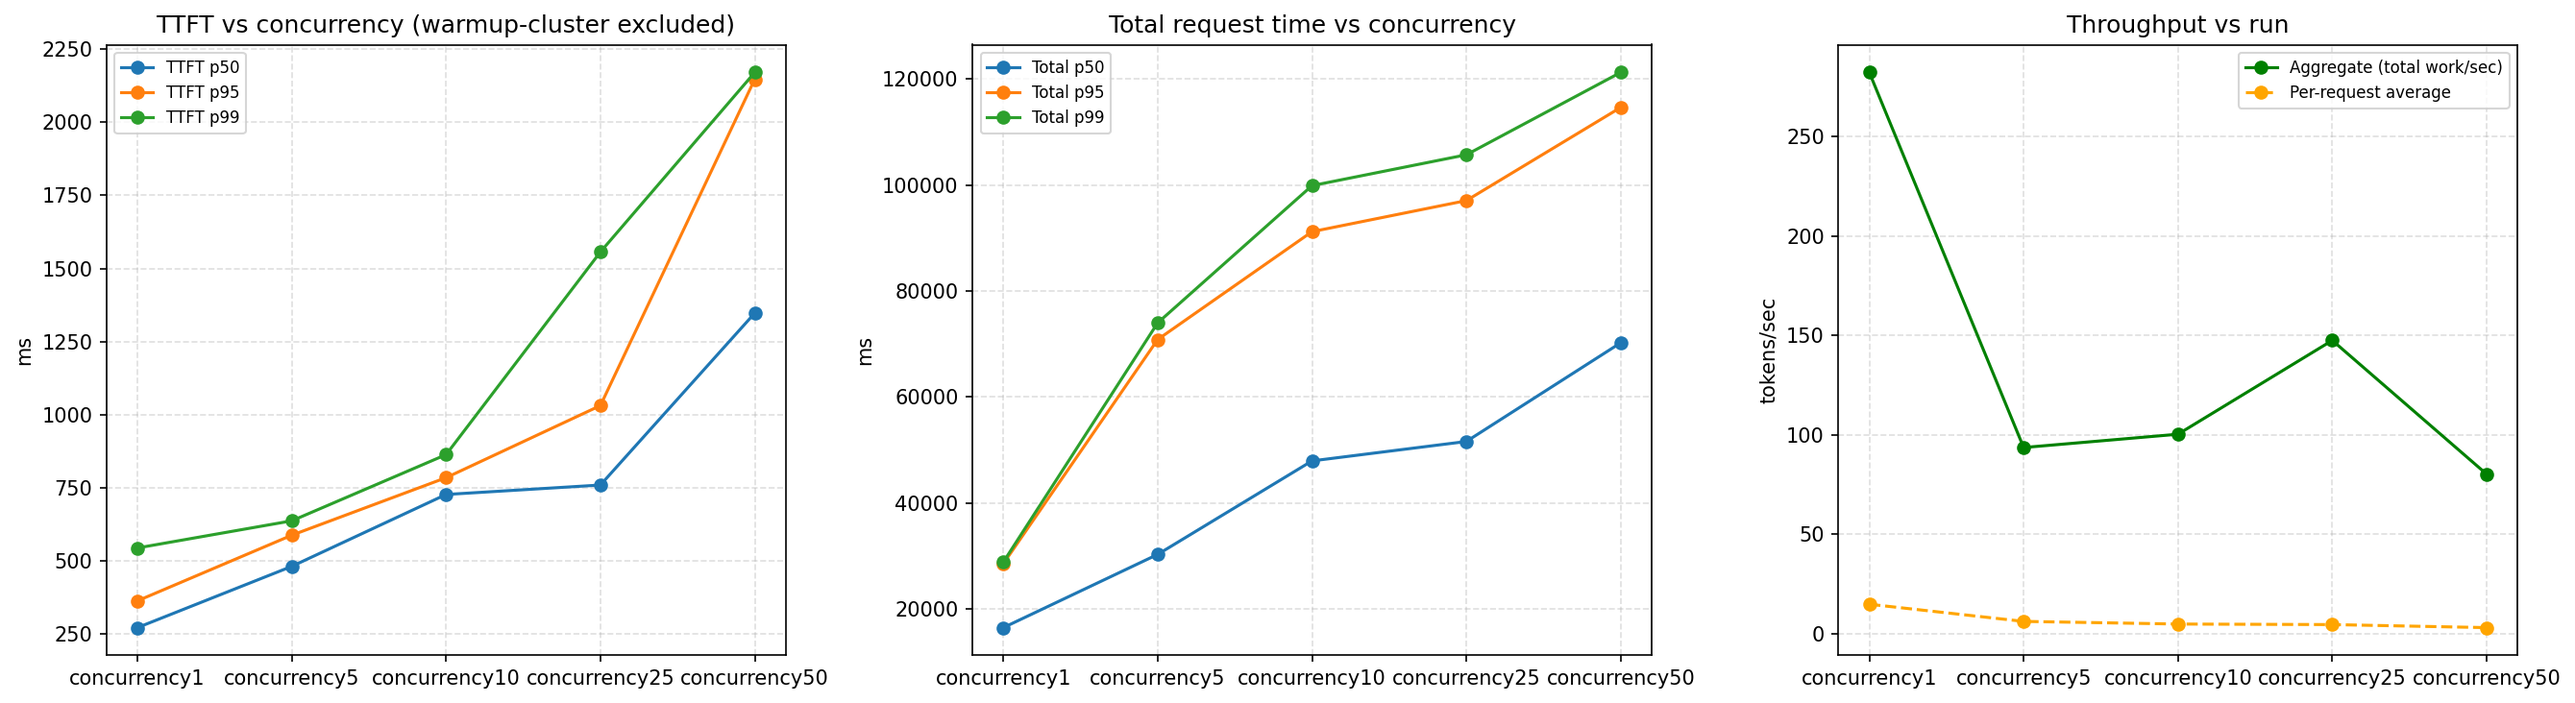
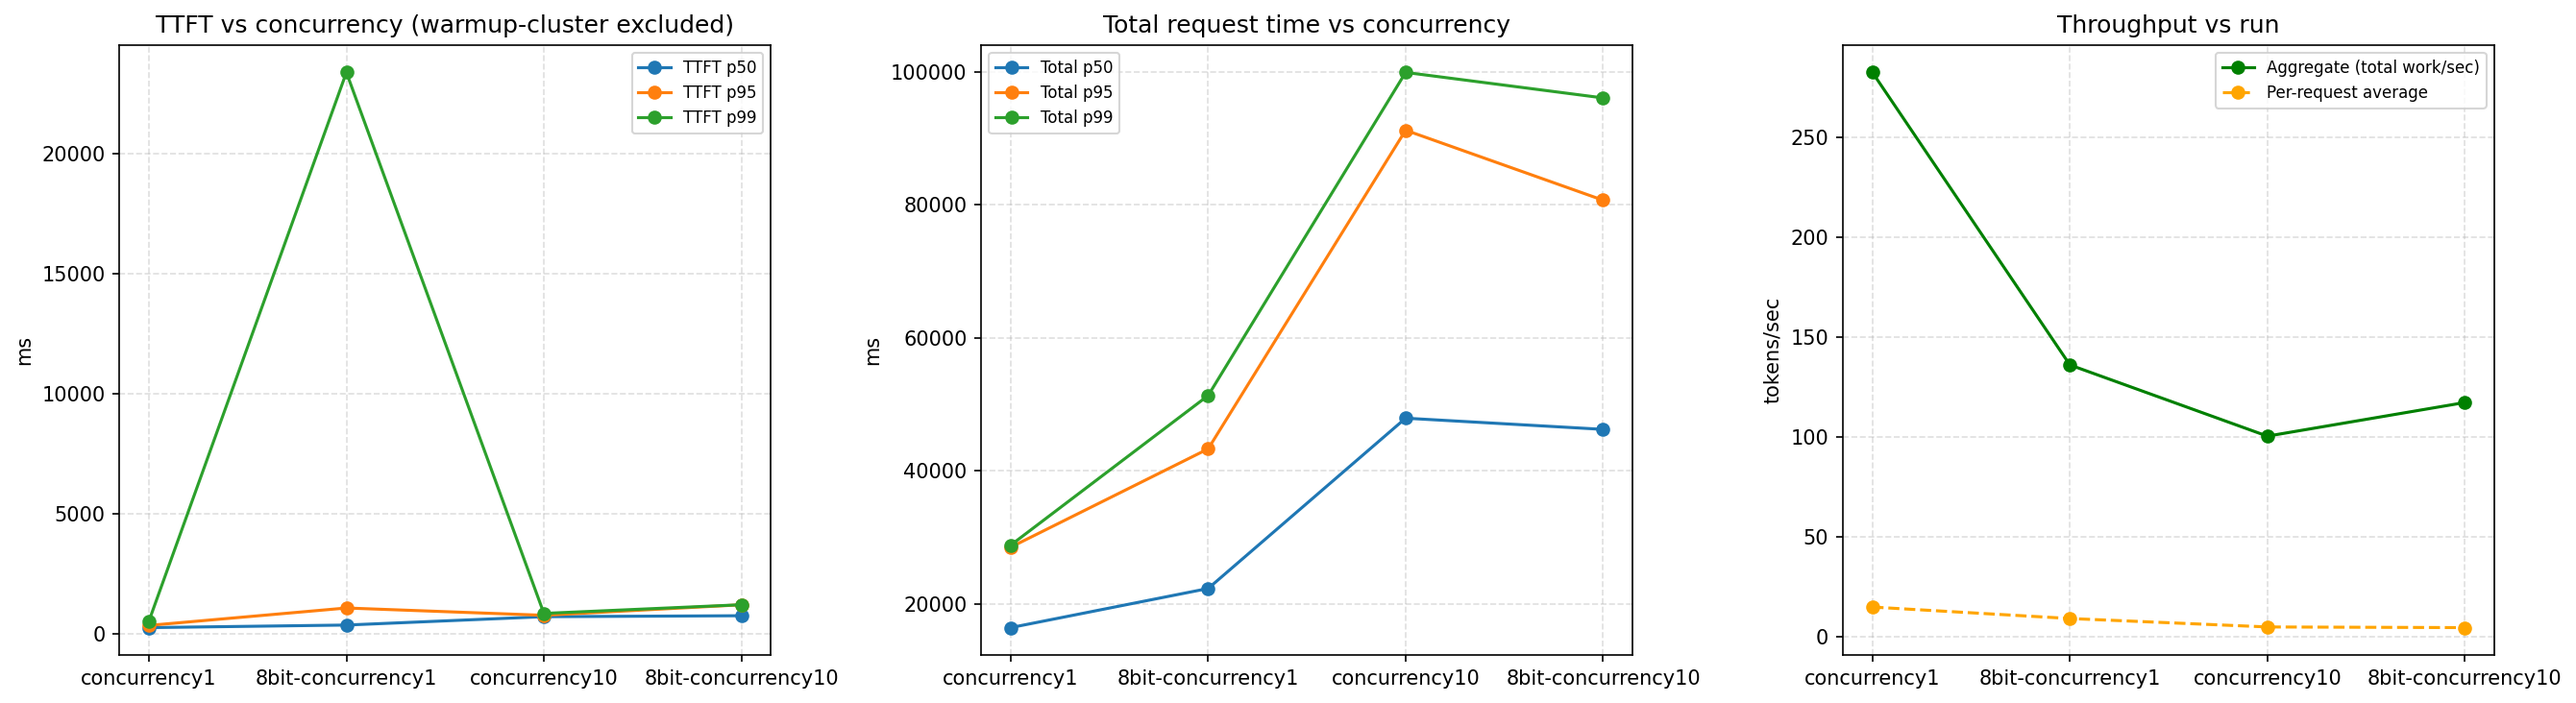
Add idle-recovery test script + gpu_util_pct in benchmark harness
Bundles two
  previously-uncommitted pieces of work: idle_recovery_test.py and the updated saturation chart from the Task 7
  idle-recovery investigation, plus Phase 1 item #3 (gpu_util_pct scraped from the powermetrics_exporter.py
  sidecar, wired into run_bench.py and documented in README.md).

diff --git a/scripts/run_bench.py b/scripts/run_bench.py
@@ -19,10 +19,12 @@ request completes, to capture scheduler/KV-cache state at that point in time:
     vllm_kv_cache_usage_perc
 
 Note (Apple Silicon / Metal): vLLM does not expose a GPU compute utilization
-percentage metric the way DCGM does on NVIDIA GPUs. On this hardware, GPU
-utilization has to come from a separate `powermetrics` / asitop sample taken
-alongside the run — that's a documented gap, not a bug in this script. See
-README.md "Known limitations" for the plan to close it.
+percentage metric the way DCGM does on NVIDIA GPUs. This script closes that
+gap by *also* scraping observability/powermetrics_exporter.py (Task 6, in
+the vllm-apple-silicon-serving repo) on a separate port (default 9400),
+recording its GPU HW active residency reading as gpu_util_pct. That exporter
+must be running (it needs sudo) for gpu_util_pct to be non-None -- pass
+--no-gpu-metrics to skip the scrape entirely if it isn't. See README.md.
 
 Usage:
     python scripts/run_bench.py \\
@@ -75,6 +77,11 @@ class RequestResult:
     num_requests_running: Optional[float] = None
     num_requests_waiting: Optional[float] = None
     kv_cache_usage_perc: Optional[float] = None
+    # GPU HW active residency percent, from the powermetrics_exporter.py sidecar
+    # (Task 6) on a separate port -- vLLM's own /metrics has no GPU-utilization
+    # number on Apple Silicon (no DCGM equivalent). None if the exporter isn't
+    # running, not a harness bug -- see README "Known limitation" note.
+    gpu_util_pct: Optional[float] = None
     # Diagnostic timing, added after an unexplained 36s TTFT outlier at
     # concurrency=1 (2026-08-02) that the vLLM server's own log did not
     # corroborate as real prefill time. queue_wait_ms measures time from
@@ -102,14 +109,26 @@ METRIC_PATTERNS = {
     "kv_cache_usage_perc": re.compile(r"^vllm:kv_cache_usage_perc(\{[^}]*\})?\s+([0-9.eE+-]+)", re.MULTILINE),
 }
 
+# GPU utilization comes from a *separate* process: observability/powermetrics_exporter.py
+# (built for Phase 1 Task 6, in the vllm-apple-silicon-serving repo), which wraps macOS's
+# `powermetrics` and re-serves it in Prometheus format on its own port (default 9400) since
+# vLLM itself has no GPU-utilization metric on Apple Silicon (no DCGM equivalent). Pattern
+# deliberately mirrors the vllm: patterns' shape (optional label group + value group) so both
+# sets of patterns can share one capture-group index (group 2) in scrape_metrics below.
+GPU_METRIC_PATTERNS = {
+    "gpu_util_pct": re.compile(r"^powermetrics_gpu_active_residency_percent(\{[^}]*\})?\s+([0-9.eE+-]+)", re.MULTILINE),
+}
 
-async def scrape_metrics(client: httpx.AsyncClient, metrics_url: str) -> dict:
-    """Fetch and parse the subset of vLLM Prometheus metrics we care about.
 
-    Returns a dict with None values for any metric not found (older/newer
-    vLLM versions do rename these — see README for the version note).
+async def scrape_metrics(client: httpx.AsyncClient, metrics_url: str, patterns: dict) -> dict:
+    """Fetch a Prometheus /metrics endpoint and parse out the given patterns.
+
+    Returns a dict with None values for any metric not found -- either the
+    endpoint is unreachable (server/exporter not running), or the metric
+    name doesn't match (e.g. a vLLM version that renamed it -- see README
+    for the version note).
     """
-    out = {k: None for k in METRIC_PATTERNS}
+    out = {k: None for k in patterns}
     try:
         resp = await client.get(metrics_url, timeout=5.0)
         resp.raise_for_status()
@@ -117,7 +136,7 @@ async def scrape_metrics(client: httpx.AsyncClient, metrics_url: str) -> dict:
     except Exception:
         return out
 
-    for key, pattern in METRIC_PATTERNS.items():
+    for key, pattern in patterns.items():
         match = pattern.search(text)
         if match:
             try:
@@ -178,6 +197,7 @@ async def run_one_request(
     api_key: str,
     model: str,
     metrics_url: str,
+    gpu_metrics_url: Optional[str],
     row: dict,
     created_at: Optional[float] = None,
 ) -> RequestResult:
@@ -279,10 +299,17 @@ async def run_one_request(
         result.tokens_per_sec = result.output_tokens / (result.total_ms / 1000.0)
 
     # Snapshot scheduler state right after this request completes.
-    metrics = await scrape_metrics(client, metrics_url)
+    metrics = await scrape_metrics(client, metrics_url, METRIC_PATTERNS)
     result.num_requests_running = metrics["num_requests_running"]
     result.num_requests_waiting = metrics["num_requests_waiting"]
     result.kv_cache_usage_perc = metrics["kv_cache_usage_perc"]
+
+    # Same idea, second source: GPU utilization from the powermetrics exporter
+    # sidecar. gpu_metrics_url is None if --gpu-metrics-url wasn't passed, in
+    # which case we skip the scrape entirely rather than hit a bad URL.
+    if gpu_metrics_url:
+        gpu_metrics = await scrape_metrics(client, gpu_metrics_url, GPU_METRIC_PATTERNS)
+        result.gpu_util_pct = gpu_metrics["gpu_util_pct"]
 
     return result
 
@@ -300,6 +327,7 @@ async def run_benchmark(
     variant: str,
     max_samples: Optional[int] = None,
     repeat: int = 1,
+    gpu_metrics_url: Optional[str] = None,
 ) -> Path:
     rows = load_dataset(dataset_path)
     rows = expand_dataset(rows, repeat)
@@ -316,8 +344,8 @@ async def run_benchmark(
         async def bound_run(row, created_at):
             async with semaphore:
                 return await run_one_request(
-                    client, base_url, api_key, model, metrics_url, row,
-                    created_at=created_at,
+                    client, base_url, api_key, model, metrics_url,
+                    gpu_metrics_url, row, created_at=created_at,
                 )
 
         # created_at is stamped when the task list is built, i.e. before any
@@ -347,6 +375,7 @@ async def run_benchmark(
         "queue_wait_ms", "connect_wait_ms",
         "input_tokens", "output_tokens", "tokens_per_sec",
         "num_requests_running", "num_requests_waiting", "kv_cache_usage_perc",
+        "gpu_util_pct",
         "error",
     ]
     with out_path.open("w", newline="", encoding="utf-8") as f:
@@ -396,13 +425,21 @@ def parse_args():
     p.add_argument("--repeat", type=int, default=1,
                     help="Cycle through the dataset this many times before running, to get enough "
                          "volume for meaningful p95/p99 at higher concurrency levels (default: 1, no repeat)")
+    p.add_argument("--gpu-metrics-url", default="http://localhost:9400/metrics",
+                    help="powermetrics_exporter.py URL for gpu_util_pct (default: "
+                         "http://localhost:9400/metrics). Pass --no-gpu-metrics to skip entirely.")
+    p.add_argument("--no-gpu-metrics", action="store_true",
+                    help="Skip GPU metrics scraping even if --gpu-metrics-url is set "
+                         "(e.g. the exporter isn't running this session).")
     return p.parse_args()
 
 
 def main():
     args = parse_args()
+    gpu_metrics_url = None if args.no_gpu_metrics else args.gpu_metrics_url
     print(f"Running against {args.base_url} | model={args.model} | "
-          f"concurrency={args.concurrency} | repeat={args.repeat}")
+          f"concurrency={args.concurrency} | repeat={args.repeat} | "
+          f"gpu_metrics={gpu_metrics_url or 'disabled'}")
     asyncio.run(
         run_benchmark(
             base_url=args.base_url,
@@ -413,6 +450,7 @@ def main():
             variant=args.variant,
             max_samples=args.max_samples,
             repeat=args.repeat,
+            gpu_metrics_url=gpu_metrics_url,
         )
     )
 

diff --git a/scripts/idle_recovery_test.py b/scripts/idle_recovery_test.py
@@ -1,0 +1,99 @@
+#!/usr/bin/env python3
+"""
+idle_recovery_test.py
+======================
+Targeted reproduction test for a finding first observed during Task 7
+(2026-08-04): a request following a period where the vLLM engine went fully
+idle (Running: 0, Waiting: 0) showed a ~37s TTFT spike, similar in size to
+the documented cold-start/warmup-cluster costs but occurring mid-run on an
+already-warm server, at a point with no new execution shape (concurrency=1
+throughout, same as many earlier requests in the same run).
+
+This script isolates the one variable at a time: send a request, wait a
+controlled idle period, send another request, and report both TTFTs plus
+the idle duration. Run this multiple times with different idle durations
+to characterize where (if anywhere) a threshold exists.
+
+Usage:
+    python scripts/idle_recovery_test.py --idle-seconds 35
+    python scripts/idle_recovery_test.py --idle-seconds 10
+    python scripts/idle_recovery_test.py --idle-seconds 60
+"""
+
+import argparse
+import asyncio
+import json
+import time
+
+import httpx
+
+
+async def single_request(client: httpx.AsyncClient, base_url: str, api_key: str,
+                          model: str, prompt: str) -> float:
+    """Send one streaming request, return ttft_ms."""
+    headers = {"Authorization": f"Bearer {api_key}"}
+    payload = {
+        "model": model,
+        "messages": [{"role": "user", "content": prompt}],
+        "temperature": 0.0,
+        "stream": True,
+        "stream_options": {"include_usage": True},
+    }
+    start = time.perf_counter()
+    ttft_ms = None
+    async with client.stream("POST", f"{base_url}/chat/completions",
+                              headers=headers, json=payload, timeout=120.0) as resp:
+        resp.raise_for_status()
+        async for line in resp.aiter_lines():
+            if not line or not line.startswith("data:"):
+                continue
+            data = line[len("data:"):].strip()
+            if data == "[DONE]":
+                break
+            try:
+                obj = json.loads(data)
+            except json.JSONDecodeError:
+                continue
+            choices = obj.get("choices") or []
+            if choices and choices[0].get("delta", {}).get("content") and ttft_ms is None:
+                ttft_ms = (time.perf_counter() - start) * 1000.0
+    return ttft_ms
+
+
+async def main():
+    parser = argparse.ArgumentParser(description=__doc__)
+    parser.add_argument("--base-url", default="http://localhost:8000/v1")
+    parser.add_argument("--api-key", default="local-vllm-key")
+    parser.add_argument("--model", required=True)
+    parser.add_argument("--idle-seconds", type=float, required=True,
+                         help="Idle gap to insert between the warm-up request and the test request")
+    args = parser.parse_args()
+
+    async with httpx.AsyncClient() as client:
+        print(f"[1/3] Sending warm-up request (establishes a known-warm baseline)...")
+        warmup_ttft = await single_request(
+            client, args.base_url, args.api_key, args.model,
+            "What is PagedAttention in one sentence?"
+        )
+        print(f"      warm-up ttft_ms = {warmup_ttft:.1f}")
+
+        print(f"[2/3] Idling for {args.idle_seconds:.1f}s "
+              f"(server should show Running: 0, Waiting: 0 during this window "
+              f"-- watch the serve.sh terminal now)...")
+        await asyncio.sleep(args.idle_seconds)
+
+        print(f"[3/3] Sending post-idle test request...")
+        test_ttft = await single_request(
+            client, args.base_url, args.api_key, args.model,
+            "Explain the difference between TTFT and TPOT."
+        )
+        print(f"      post-idle ttft_ms = {test_ttft:.1f}")
+
+        print()
+        print(f"RESULT: idle_seconds={args.idle_seconds:.1f} "
+              f"warmup_ttft_ms={warmup_ttft:.1f} post_idle_ttft_ms={test_ttft:.1f} "
+              f"ratio={test_ttft/warmup_ttft:.2f}x")
+
+
+if __name__ == "__main__":
+    asyncio.run(main())

diff --git a/README.md b/README.md
@@ -34,15 +34,35 @@ built-in Prometheus `/metrics` endpoint and records a snapshot of:
 - `num_requests_waiting` (`vllm:num_requests_waiting`)
 - `kv_cache_usage_perc` (`vllm:kv_cache_usage_perc`)
 
-## Known limitation: GPU utilization on Apple Silicon
+It also scrapes a second, separate metrics source — the `powermetrics_exporter.py`
+sidecar on `:9400` — for:
+
+- `gpu_util_pct` (`powermetrics_gpu_active_residency_percent`) — see "GPU
+  utilization on Apple Silicon" below for what this requires and means.
+
+## GPU utilization on Apple Silicon: `gpu_util_pct`
 
 vLLM does not export a GPU compute-utilization percentage metric — that
 normally comes from NVIDIA's DCGM exporter, which has no Metal/Apple Silicon
-equivalent. On this hardware, GPU utilization has to be sampled separately
-via `sudo powermetrics` or `asitop` alongside a benchmark run. This harness
-does not attempt to fake that number; `gpu_util_pct` is intentionally absent
-from the output schema until a Metal-native sampling script is added as a
-follow-up.
+equivalent. This harness closes that gap (Phase 1 item #3) by scraping a
+*second*, separate metrics source: `observability/powermetrics_exporter.py`
+(Task 6, in the [vllm-apple-silicon-serving](https://github.com/rap7239/vllm-apple-silicon-serving)
+repo), which wraps macOS's `powermetrics` and re-serves `GPU HW active
+residency` — the closest Apple-native analog to DCGM's SM-utilization
+percentage — in Prometheus text format on its own port (default `:9400`).
+
+`gpu_util_pct` in the output schema requires that exporter to be running
+(`sudo python3 observability/powermetrics_exporter.py --port 9400`) *before*
+starting a benchmark run — `sudo` is required because `powermetrics` reads
+privileged hardware counters. If the exporter isn't running, `run_bench.py`
+degrades gracefully rather than crashing: `gpu_util_pct` is simply `None`
+for every row (confirmed via `--no-gpu-metrics` or an unreachable
+`--gpu-metrics-url`), not a harness bug. Verified end-to-end 2026-08-06:
+GPU active residency reads ~6% at idle vs. 83-98% during active token
+generation — real signal, not a fixed/fake value, though note this is not
+purely a "cold start" effect (see `PHASE1_LOG.md` for the full reasoning —
+active residency tracks whether the GPU is doing compute *right now*, not a
+one-time warmup cost).
 
 ## Quick start
 
